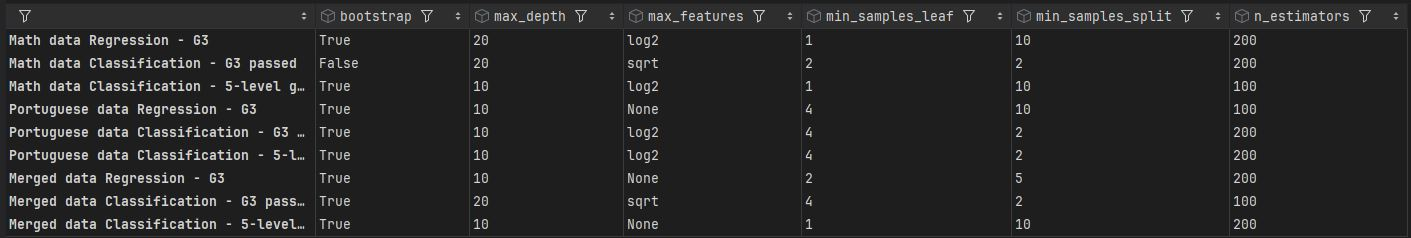
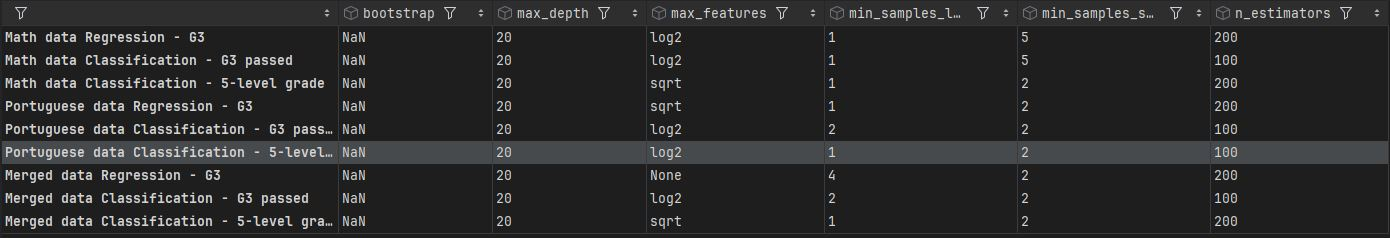
update

diff --git a/script.py b/script.py
@@ -9,6 +9,7 @@ from sklearn.preprocessing import StandardScaler
 from sklearn.ensemble import RandomForestClassifier, RandomForestRegressor
 from sklearn.metrics import (root_mean_squared_error, mean_absolute_error, r2_score,
                              precision_score, f1_score, roc_auc_score, accuracy_score, recall_score)
+from imblearn.over_sampling import SMOTE
 
 #import data
 data_math = pd.read_csv('./data/Maths.csv')
@@ -83,28 +84,6 @@ data_math[cat_cols] = data_math[cat_cols].astype('category')
 data_port[cat_cols] = data_port[cat_cols].astype('category')
 
 
-#rename the education categories
-def rename_education(data, parent):
-    data[parent] = data[parent].cat.rename_categories(
-        {0: "none", 1: "primary education", 2: "5th to 9th", 3: "secondary education", 4: "higher education"})
-
-
-rename_education(data_math, 'Fedu')
-rename_education(data_port, 'Fedu')
-rename_education(data_math, 'Medu')
-rename_education(data_port, 'Medu')
-
-#rename the studytime categories
-data_math["studytime"] = data_math["studytime"].cat.rename_categories(
-    {1: "<=2h", 2: "2-5h", 3: "5-10h", 4: ">=10h"})
-data_port["studytime"] = data_port["studytime"].cat.rename_categories(
-    {1: "<=2h", 2: "2-5h", 3: "5-10h", 4: ">=10h"})
-#rename the traveltime categories
-data_math["traveltime"] = data_math["traveltime"].cat.rename_categories(
-    {1: "1-<15min", 2: "15-30min", 3: "30-60min", 4: ">1h"})
-data_port["traveltime"] = data_port["traveltime"].cat.rename_categories(
-    {1: "1-<15min", 2: "15-30min", 3: "30-60min", 4: ">1h"})
-
 #Check if continuous variables are normally distributed
 print('Maths:')
 for var in num_cols:
@@ -116,7 +95,9 @@ for var in num_cols:
 # If Shapiro significant => data not normally distributed -> they are all not normally distributed
 
 #Combine the datasets
-data_merged = pd.concat([data_math, data_port])
+data_merged_raw = pd.concat([data_math, data_port])
+data_merged = data_merged_raw.drop_duplicates(subset=data_math.columns.drop(['G1','G2','G3','G3 passed','5-level grade']).tolist())
+
 
 #create a dictionary for the data-frame names
 data_titles = {'Math data': data_math, 'Portuguese data': data_port, 'Merged data': data_merged}
@@ -252,8 +233,8 @@ def RF_regressor(data, label):
     # parameter grid for the hyperparameters
     parameter_grid = {'n_estimators': [100, 200],
                       'max_features': [None, 'sqrt', 'log2'],
-                      'max_depth': [10, 20, None], 'min_samples_split': [2, 5, 10],
-                      'min_samples_leaf': [1, 2, 4], 'bootstrap': [True, False]}
+                      'max_depth': [10, 20], 'min_samples_split': [2, 5],
+                      'min_samples_leaf': [1, 2, 4]}
 
     # Select Features and Labels
     X = data.drop(["G3", "G3 passed", "5-level grade", "G1", "G2", 'age'], axis=1)  # Features
@@ -326,10 +307,9 @@ def RF_classifier(data, label):
     parameter_grid = {
         'n_estimators': [100, 200],
         'max_features': [None, 'sqrt', 'log2'],
-        'max_depth': [10, 20, None],
-        'min_samples_split': [2, 5, 10],
-        'min_samples_leaf': [1, 2, 4],
-        'bootstrap': [True, False]
+        'max_depth': [10, 20],
+        'min_samples_split': [2, 5],
+        'min_samples_leaf': [1, 2, 4]
     }
 
     # Select Features and Labels
@@ -353,6 +333,10 @@ def RF_classifier(data, label):
         X_train, X_test = X.iloc[train_index], X.iloc[test_index]
         y_train, y_test = y.iloc[train_index], y.iloc[test_index]
 
+        # Apply SMOTE to balance the data
+        smote = SMOTE(random_state=47)
+        X_train, y_train = smote.fit_resample(X_train, y_train)
+
         # Standardize the data
         scaler = StandardScaler()
         X_train = scaler.fit_transform(X_train)
@@ -362,7 +346,6 @@ def RF_classifier(data, label):
         rf_classifier = RandomForestClassifier(random_state=47)
 
         # Conduct GridSearch cross validation
-
         clf_GS = GridSearchCV(rf_classifier, parameter_grid, cv=3, verbose=3)
         clf_GS.fit(X_train, y_train)
         best_params = clf_GS.best_params_
@@ -415,7 +398,7 @@ overview = pd.DataFrame(
     columns=['Accuracy', 'Precision', 'Recall', 'F1', 'ROC-AUC', 'MAE', 'MAE-std', 'RMSE', 'RMSE-std', 'R2',
              'R2-std', 'main feature', 'top 5 features'])
 model_parameters = pd.DataFrame(
-    columns=['bootstrap', 'max_depth', 'max_features', 'min_samples_leaf', 'min_samples_split', 'n_estimators'])
+    columns=['max_depth', 'max_features', 'min_samples_leaf', 'min_samples_split', 'n_estimators'])
 
 label_coding = {'G3 passed':['G3 passed_Passed', 'G3 passed_Failed'],
                 '5-level grade':['5-level grade_F',
